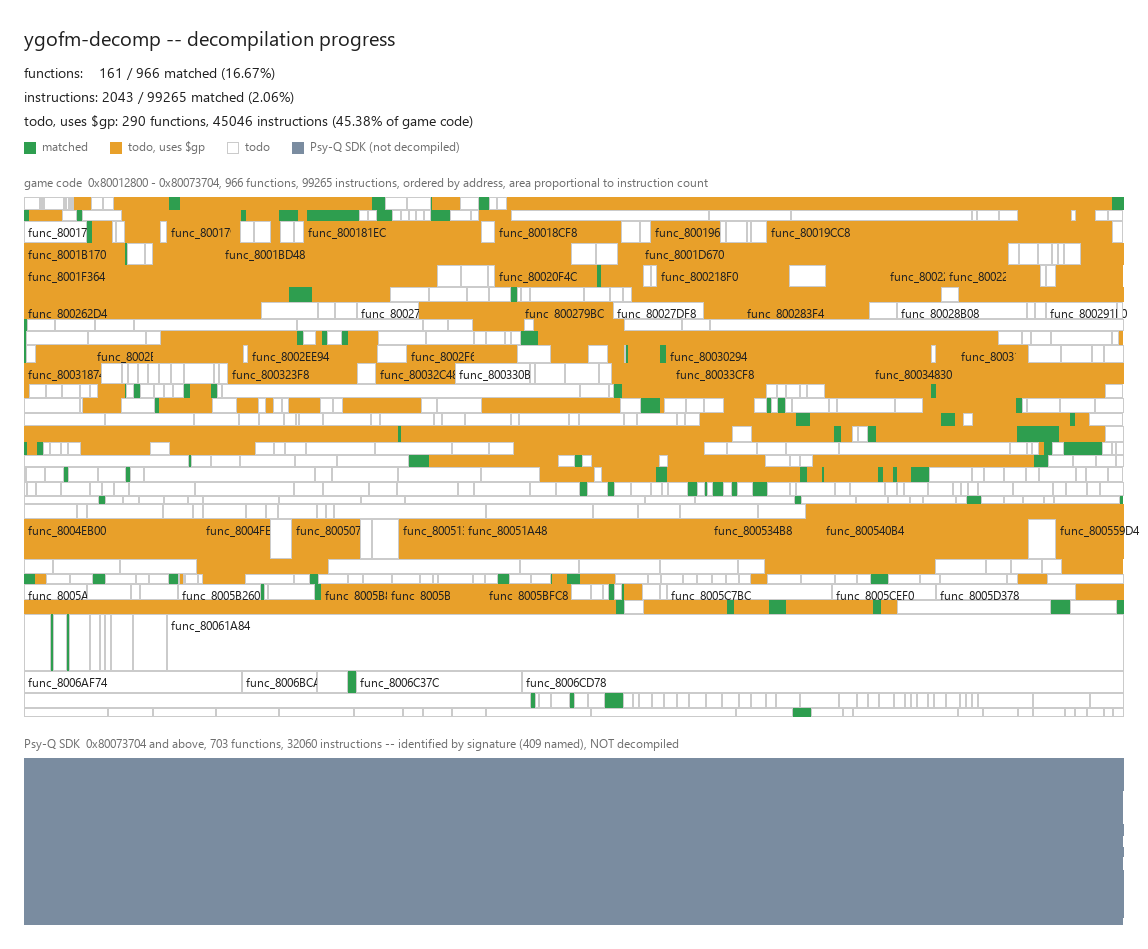
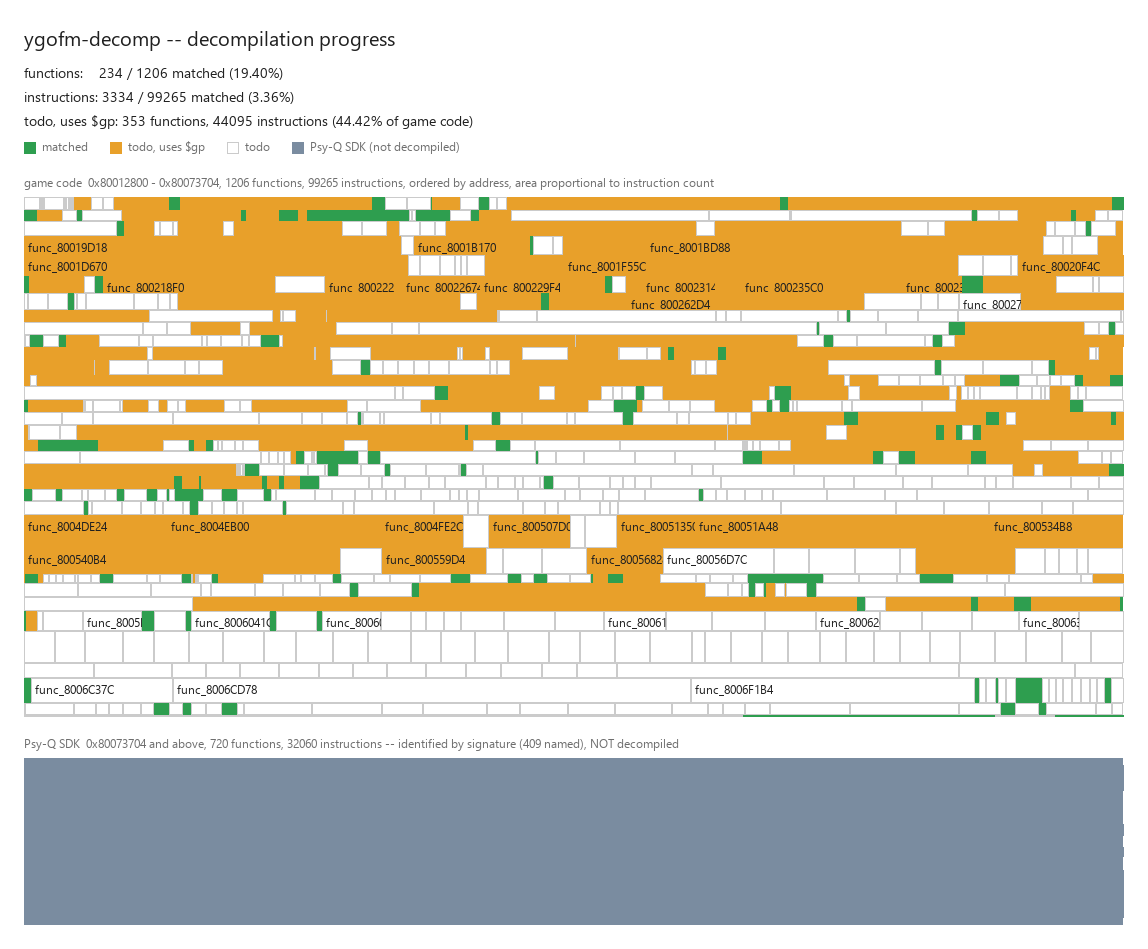
Wave 2 complete: 234 functions, 3.36% of instructions
73 hand-decompiled functions from four workers, plus the gp rewriter fix and 257
verified function splits. Executable and full disc byte-identical; boot passes.

Two bugs of mine in split_funcs.py, both caught by verify_src.py:

1. The output must accumulate. The tool reads asm/, which already reflects
   applied splits, so writing a freshly computed set erased the 320 that made
   the disassembly what it is -- 104 source files then referred to functions
   that no longer existed. Now unions and iterates to a fixed point.

2. The local-label regex was anchored ^\.L but those lines are indented, so every
   internal branch target looked unlabelled and 205 of 462 proposed splits cut
   real functions in half. My spot-check passed for the wrong reason: in the
   example I chose the label sat on the return rather than after it, so the
   broken path was never exercised.

Inventory is now 1206 game functions, up from the 678 originally reported.

Changed region(s): [[0.0, 0.1834, 1.0, 0.764], [0.0915, 0.0611, 0.2439, 0.1222]]

diff --git a/tools/split_funcs.py b/tools/split_funcs.py
@@ -36,8 +36,13 @@ SYMBOLS = os.path.join(REPO, "config", "split_syms.txt")
 
 LABEL = re.compile(r"^(?:glabel|dlabel|alabel|jlabel)\s+(\S+)")
 END = re.compile(r"^endlabel\s+(\S+)")
-# splat emits a local label for every internal branch/jump target it found
-LOCAL_LABEL = re.compile(r"^\.L[0-9A-F]{8}:")
+# splat emits a local label for every internal branch/jump target it found.
+# NOTE the leading whitespace: these lines are indented ("  .L800708B0:"), and an
+# `^\.L`-anchored pattern silently matched none of them -- which proposed splits
+# in the middle of real functions.  Worse, once a bad symbol exists splat renders
+# that address as `func_X` rather than `.L X`, so the mistake becomes
+# self-justifying on the next run.
+LOCAL_LABEL = re.compile(r"^\s*\.L[0-9A-Fa-f]{8}:")
 INSN = re.compile(r"^\s+/\* [0-9A-F]+ ([0-9A-F]{8}) ([0-9A-F]{8}) \*/\s+(\S+)(.*)$")
 
 
@@ -155,21 +160,36 @@ def main():
     print("\n%d function(s) are currently invisible to the inventory" % total_hidden)
 
     if args.write and props:
-        # Rewritten from scratch each run: this tool is the authority on splits,
-        # so appending would duplicate entries every time it is re-run.
-        seen = set()
+        # The output must ACCUMULATE, not be rewritten.  This tool reads `asm/`,
+        # which already reflects the splits applied on previous runs -- so a
+        # freshly computed set only contains what is *still* merged, and writing
+        # it verbatim erases every split that made the current disassembly what
+        # it is.  Doing exactly that dropped 320 earlier splits and left 104
+        # source files referring to functions that no longer existed.
+        #
+        # Because each round exposes spans the previous round's labels revealed,
+        # re-run until the count stops growing.
+        existing = {}
+        if os.path.exists(SYMBOLS):
+            for line in open(SYMBOLS):
+                m = re.match(r"(\w+)\s*=\s*0x([0-9A-Fa-f]+)\s*;", line.strip())
+                if m:
+                    existing[int(m.group(2), 16)] = m.group(1)
+
+        before = len(existing)
+        for p in props:
+            existing.setdefault(p["addr"], "func_%08X" % p["addr"])
+
         with open(SYMBOLS, "w") as fp:
             fp.write("// Generated by tools/split_funcs.py -- do not edit.\n"
                      "// Code that continues past a jr $ra with no label of its\n"
-                     "// own: functions spimdisasm merged into one span.\n")
-            for p in sorted(props, key=lambda q: q["addr"]):
-                name = "func_%08X" % p["addr"]
-                if name in seen:
-                    continue
-                seen.add(name)
-                fp.write("%s = 0x%08X; // type:func\n" % (name, p["addr"]))
-        added = len(seen)
-        print("wrote %d symbol(s) to %s" % (added, SYMBOLS))
+                     "// own: functions spimdisasm merged into one span.\n"
+                     "// Accumulated across runs; re-run until the count settles.\n")
+            for addr in sorted(existing):
+                fp.write("%s = 0x%08X; // type:func\n" % (existing[addr], addr))
+        added = len(existing) - before
+        print("%d symbol(s) total in %s (%d new this run)"
+              % (len(existing), SYMBOLS, added))
         print("re-run splat and tools/build.py to pick them up")
     return 0
 

diff --git a/PLAN.md b/PLAN.md
@@ -1181,3 +1181,48 @@ The lesson is about the gate, not the workers. A non-matching file is not
 harmless work-in-progress — it silently replaces correct assembly with wrong
 code — and until now nothing checked for one except a whole-binary hash that
 cannot localise the fault.
+
+### 2026-07-25 — wave 2 complete: 234 functions, 3.36% of instructions
+
+All six workers in. Wave 2 hand-decompilation: 20 + 18 + 17 + 18 = **73
+functions**. Combined with automation and wave 1:
+
+| | |
+|---|---|
+| functions from C | **234** |
+| instructions | **3,334 / 99,265 (3.36%)** |
+| executable | `84747e64…` byte-identical |
+| disc image | `d5785a41…` byte-identical |
+| boot from in-duel state | passes |
+
+#### Two bugs of mine in split_funcs.py, found by the verifier
+
+**1. The output must accumulate, not be rewritten.** The tool reads `asm/`, which
+already reflects previously applied splits, so a freshly computed set contains
+only what is *still* merged. Writing it verbatim erased the 320 splits that made
+the current disassembly what it is, and left 104 source files referring to
+functions that no longer existed. It now unions with the existing file and is
+re-run to a fixed point.
+
+**2. The local-label regex never matched anything.** Those lines are *indented*
+(`  .L800708B0:`) and the pattern was anchored `^\.L`. So every internal branch
+target looked unlabelled, and 205 of 462 proposed splits were cutting real
+functions in half. Once a bad symbol exists splat renders that address as
+`func_X` rather than `.L X`, so the error is self-justifying on the next run.
+
+**My spot-check missed it because I picked the wrong example.** In
+`func_80040424` the label sits *on* the return instruction, not after it, so that
+case never exercised the broken path — it passed for the wrong reason. Two
+examples that both look convincing can still leave the actual code path untested.
+
+With the regex fixed, **257** genuine splits, not 462. Final inventory after
+iterating to a fixed point:
+
+```
+1206 game functions (from 678 originally reported, then 966)
+ 404 use $gp (45.1% of game code)
+ 436 leaf functions
+```
+
+`tools/verify_src.py` is what caught both bugs — it names the failing file, where
+the whole-binary hash only says something is wrong somewhere in 1.9 MB.
